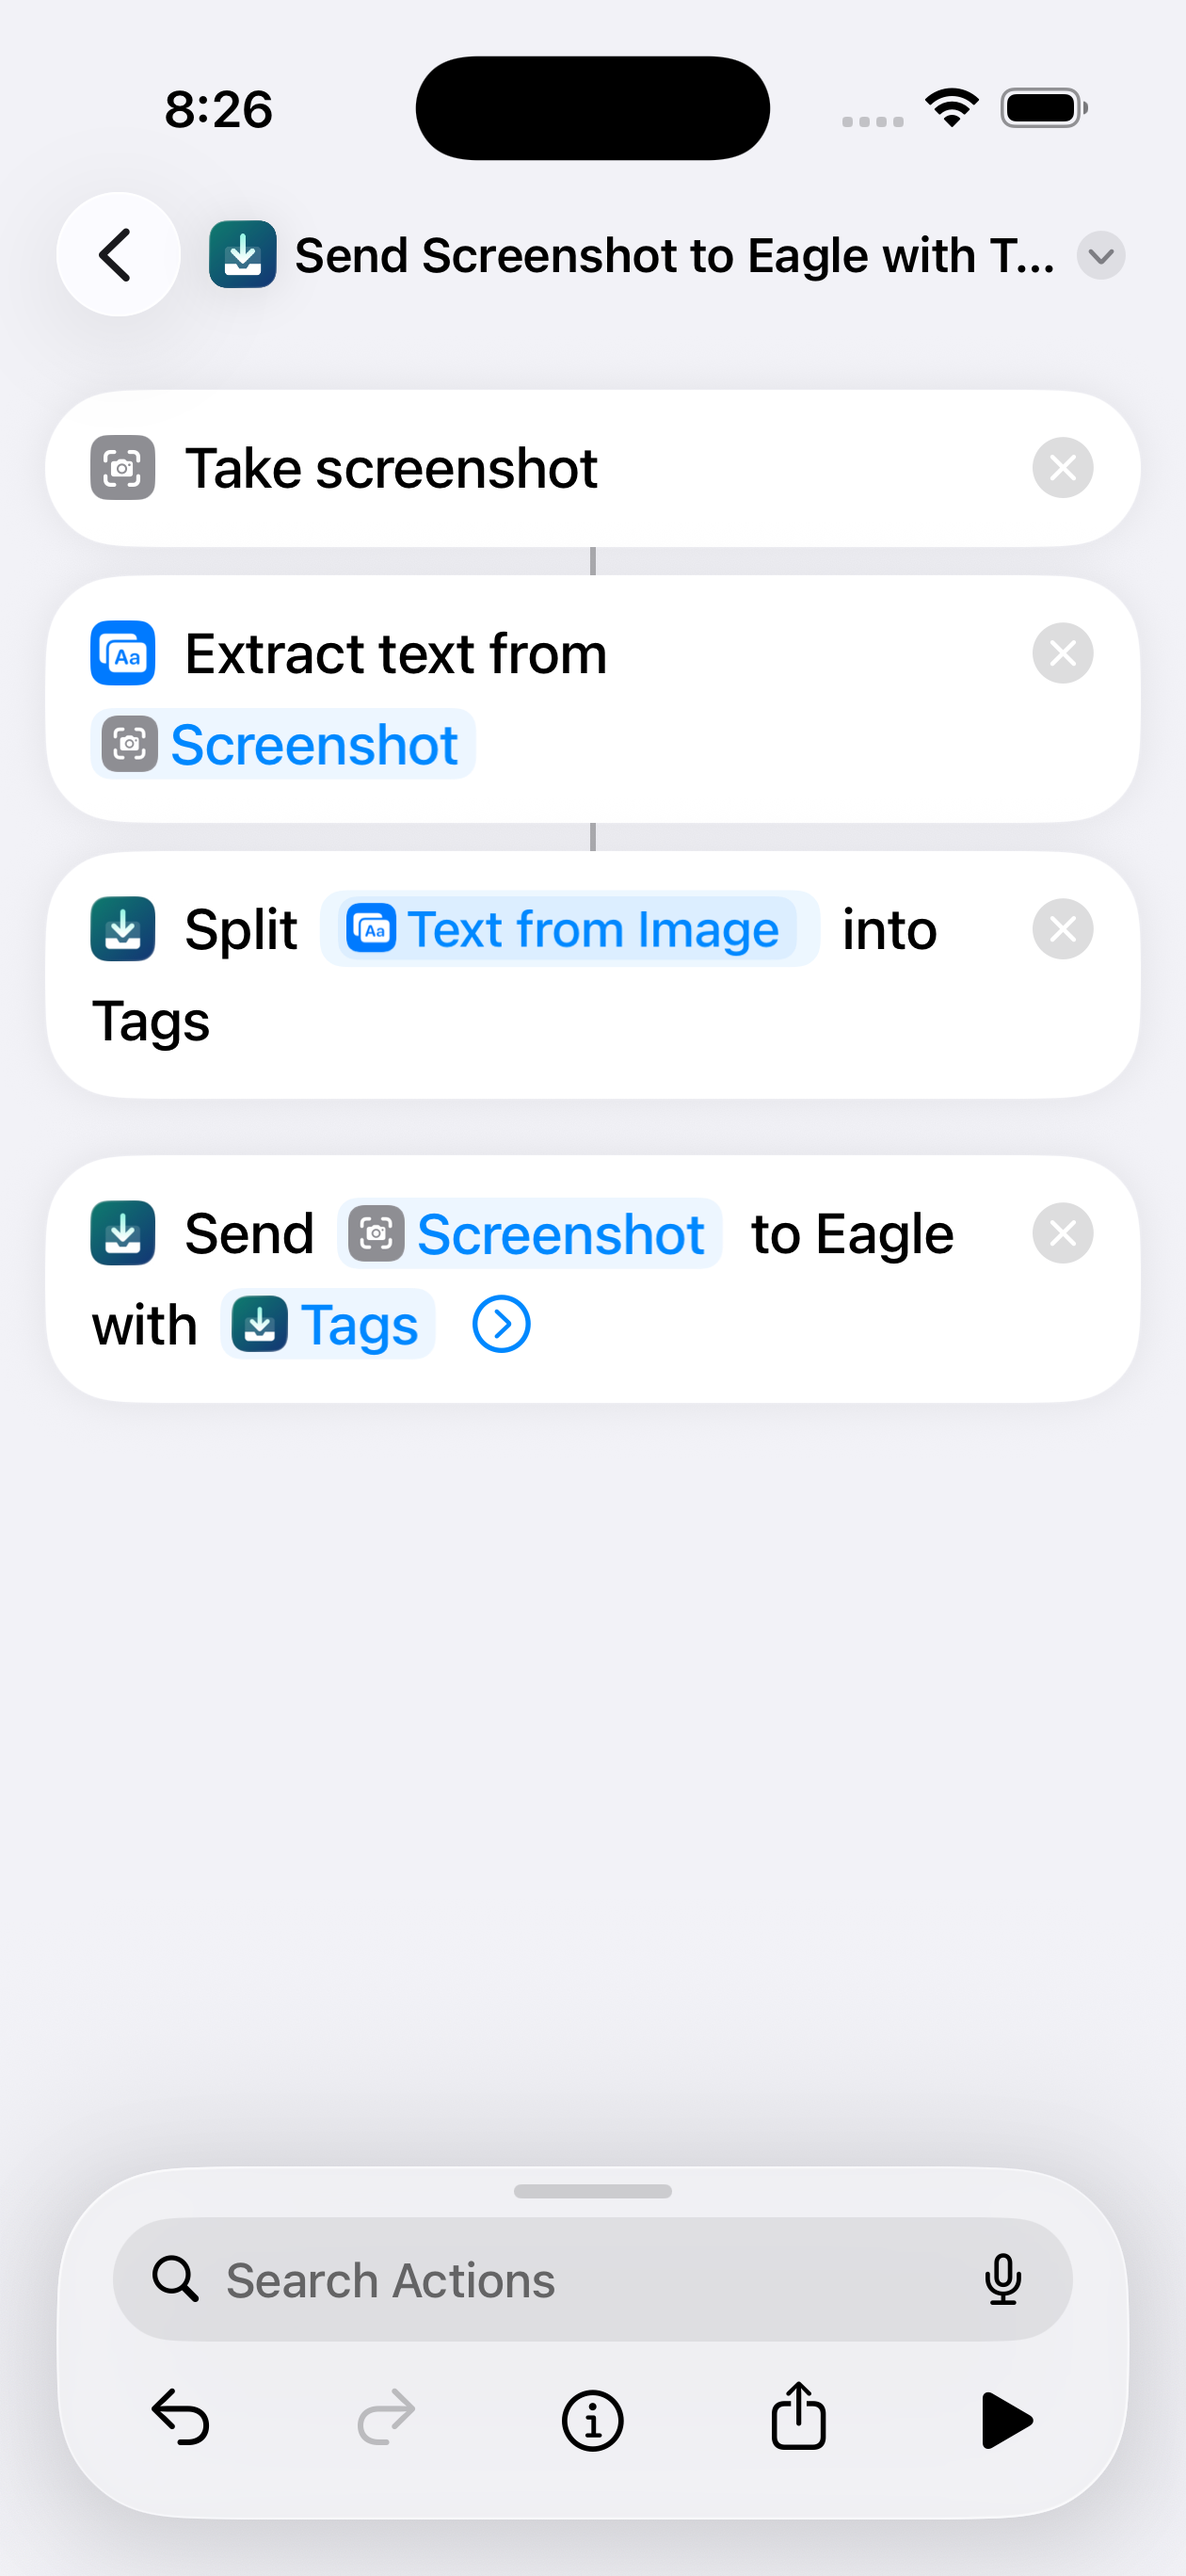
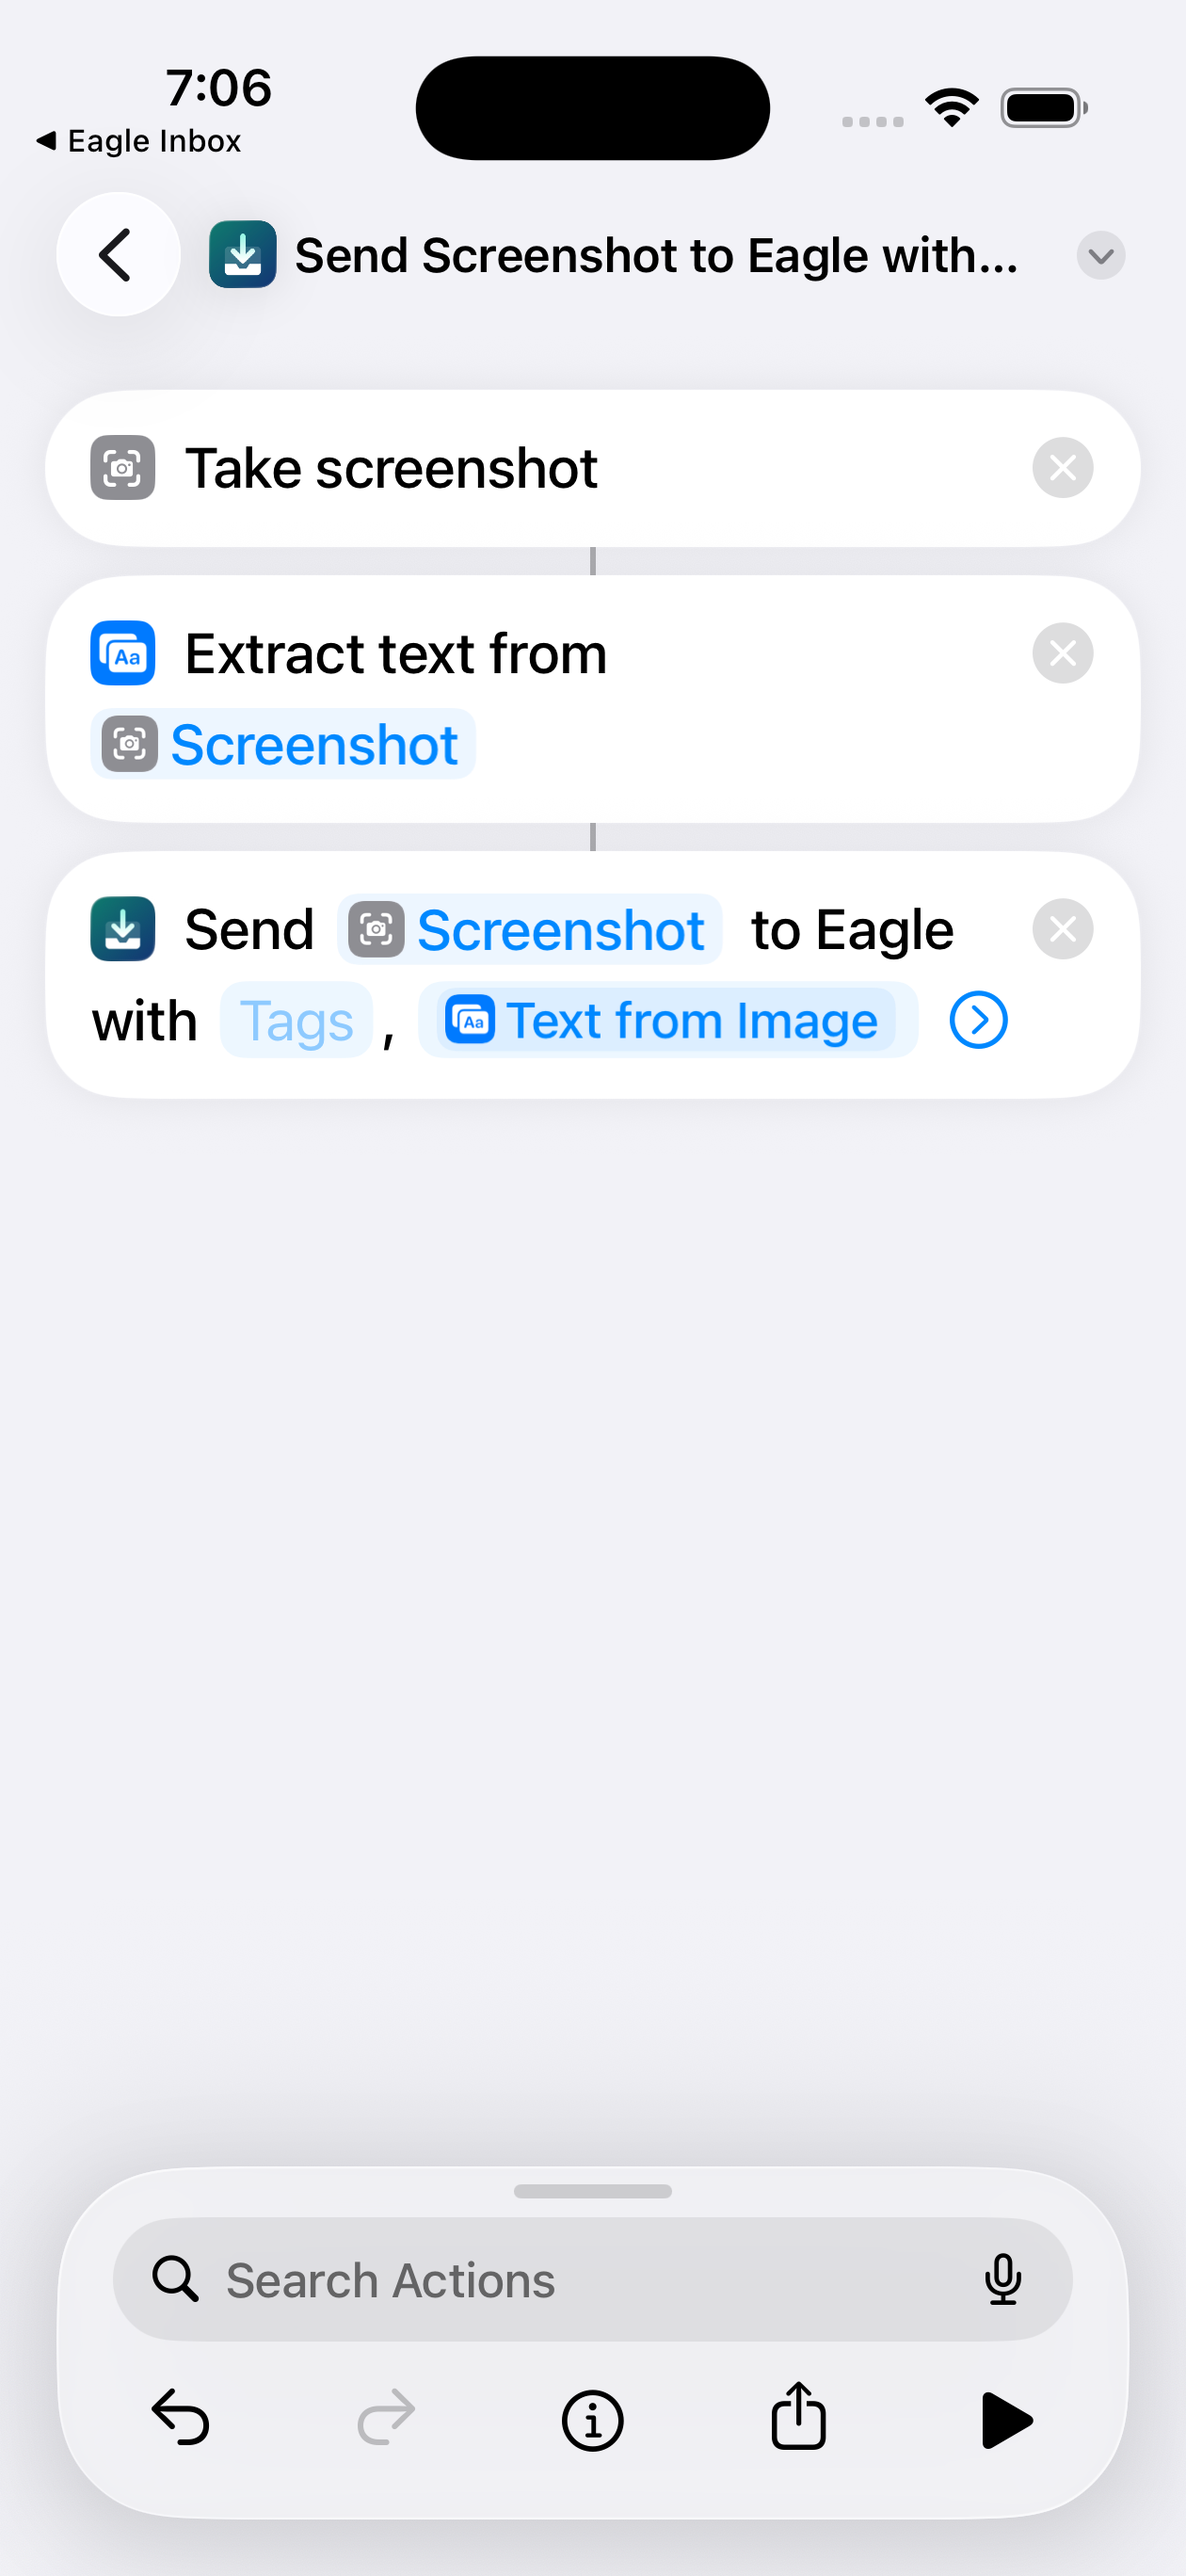
feat: enhance shortcuts with optional tags and annotations for file and URL actions

diff --git a/EagleInbox/EagleShortcuts.swift b/EagleInbox/EagleShortcuts.swift
@@ -37,18 +37,26 @@ struct SendFilesToEagleIntent: AppIntent {
 }
 
 struct SendFilesToEagleWithTagsIntent: AppIntent {
-    static let title: LocalizedStringResource = "Send Files to Eagle with Tags"
+    static let title: LocalizedStringResource =
+        "Send Files to Eagle with Tags, Annotation"
     static let description = IntentDescription(
-        "Sends photos, videos, audio, and PDFs with tags to the selected Eagle connection."
+        "Sends photos, videos, audio, and PDFs with optional tags and an optional annotation to the selected Eagle connection."
     )
     static let openAppWhenRun = false
 
     @Parameter(
         title: "Tags",
-        description: "The tags to apply to every sent item.",
+        description: "Optional tags to apply to every sent item.",
         inputConnectionBehavior: .connectToPreviousIntentResult
     )
-    var tags: [String]
+    var tags: [String]?
+
+    @Parameter(
+        title: "Annotation",
+        description: "An optional annotation to apply to every sent item.",
+        inputOptions: .init(multiline: true, autocorrect: true)
+    )
+    var annotation: String?
 
     @Parameter(
         title: "Files",
@@ -64,13 +72,16 @@ struct SendFilesToEagleWithTagsIntent: AppIntent {
     var files: [IntentFile]
 
     static var parameterSummary: some ParameterSummary {
-        Summary("Send \(\.$files) to Eagle with \(\.$tags)")
+        Summary(
+            "Send \(\.$files) to Eagle with \(\.$tags), \(\.$annotation)"
+        )
     }
 
     func perform() async throws -> some IntentResult & ProvidesDialog {
         let dialog = try await EagleShortcutSender.send(
             files: files,
-            tags: try EagleShortcutSender.requiredTags(tags)
+            tags: EagleShortcutSender.normalizedTags(tags),
+            annotation: EagleShortcutSender.normalizedAnnotation(annotation)
         )
         return .result(dialog: dialog)
     }
@@ -105,18 +116,26 @@ struct SendURLsToEagleIntent: AppIntent {
 }
 
 struct SendURLsToEagleWithTagsIntent: AppIntent {
-    static let title: LocalizedStringResource = "Send URLs to Eagle with Tags"
+    static let title: LocalizedStringResource =
+        "Send URLs to Eagle with Tags, Annotation"
     static let description = IntentDescription(
-        "Saves web URLs as tagged bookmarks in the selected Eagle connection."
+        "Saves web URLs as bookmarks with optional tags and an optional annotation in the selected Eagle connection."
     )
     static let openAppWhenRun = false
 
     @Parameter(
         title: "Tags",
-        description: "The tags to apply to every sent item.",
+        description: "Optional tags to apply to every sent item.",
         inputConnectionBehavior: .connectToPreviousIntentResult
     )
-    var tags: [String]
+    var tags: [String]?
+
+    @Parameter(
+        title: "Annotation",
+        description: "An optional annotation to apply to every sent item.",
+        inputOptions: .init(multiline: true, autocorrect: true)
+    )
+    var annotation: String?
 
     @Parameter(
         title: "URLs",
@@ -126,13 +145,16 @@ struct SendURLsToEagleWithTagsIntent: AppIntent {
     var urls: [URL]
 
     static var parameterSummary: some ParameterSummary {
-        Summary("Send \(\.$urls) to Eagle with \(\.$tags)")
+        Summary(
+            "Send \(\.$urls) to Eagle with \(\.$tags), \(\.$annotation)"
+        )
     }
 
     func perform() async throws -> some IntentResult & ProvidesDialog {
         let dialog = try await EagleShortcutSender.send(
             urls: urls,
-            tags: try EagleShortcutSender.requiredTags(tags)
+            tags: EagleShortcutSender.normalizedTags(tags),
+            annotation: EagleShortcutSender.normalizedAnnotation(annotation)
         )
         return .result(dialog: dialog)
     }
@@ -169,17 +191,23 @@ struct SplitTextIntoTagsIntent: AppIntent {
 }
 
 private enum EagleShortcutSender {
-    static func requiredTags(_ input: [String]) throws -> [String] {
-        let tags = EagleTagInput.names(from: input)
-        guard !tags.isEmpty else {
-            throw EagleShortcutError.noTags
+    static func normalizedTags(_ input: [String]?) -> [String] {
+        EagleTagInput.names(from: input)
+    }
+
+    static func normalizedAnnotation(_ input: String?) -> String? {
+        guard let annotation = input?.trimmingCharacters(
+            in: .whitespacesAndNewlines
+        ), !annotation.isEmpty else {
+            return nil
         }
-        return tags
+        return annotation
     }
 
     static func send(
         files: [IntentFile],
-        tags: [String]
+        tags: [String],
+        annotation: String? = nil
     ) async throws -> IntentDialog {
         guard !files.isEmpty else {
             throw EagleShortcutError.noInput
@@ -201,7 +229,8 @@ private enum EagleShortcutSender {
                 defer { materializedFile.removeTemporaryCopy() }
                 try await uploader.upload(
                     materializedFile.uploadItem,
-                    tags: tags
+                    tags: tags,
+                    annotation: annotation
                 )
                 batch.recordSuccess()
             } catch is CancellationError {
@@ -227,7 +256,8 @@ private enum EagleShortcutSender {
 
     static func send(
         urls: [URL],
-        tags: [String]
+        tags: [String],
+        annotation: String? = nil
     ) async throws -> IntentDialog {
         guard !urls.isEmpty else {
             throw EagleShortcutError.noValidWebURL
@@ -268,7 +298,11 @@ private enum EagleShortcutSender {
                 source: .bookmark(url)
             )
             do {
-                try await uploader.upload(item, tags: tags)
+                try await uploader.upload(
+                    item,
+                    tags: tags,
+                    annotation: annotation
+                )
                 batch.recordSuccess()
             } catch is CancellationError {
                 throw CancellationError()
@@ -306,10 +340,10 @@ struct EagleInboxShortcuts: AppShortcutsProvider {
         AppShortcut(
             intent: SendURLsToEagleWithTagsIntent(),
             phrases: [
-                "Send tagged URLs with \(.applicationName)",
-                "Save tagged links with \(.applicationName)"
+                "Send URLs with extra options using \(.applicationName)",
+                "Save links with extra options using \(.applicationName)"
             ],
-            shortTitle: "Send URLs with Tags",
+            shortTitle: "Send URLs with Tags, Annotation",
             systemImageName: "tag"
         )
         AppShortcut(
@@ -324,10 +358,10 @@ struct EagleInboxShortcuts: AppShortcutsProvider {
         AppShortcut(
             intent: SendFilesToEagleWithTagsIntent(),
             phrases: [
-                "Send tagged files with \(.applicationName)",
-                "Send tagged media with \(.applicationName)"
+                "Send files with extra options using \(.applicationName)",
+                "Send media with extra options using \(.applicationName)"
             ],
-            shortTitle: "Send Files with Tags",
+            shortTitle: "Send Files with Tags, Annotation",
             systemImageName: "tag"
         )
         AppShortcut(
@@ -391,7 +425,8 @@ private struct EagleShortcutUploader {
 
     func upload(
         _ item: EagleShortcutUploadItem,
-        tags: [String]
+        tags: [String],
+        annotation: String?
     ) async throws {
         _ = try await client.upload(
             source: item.source,
@@ -400,7 +435,7 @@ private struct EagleShortcutUploader {
                 website: nil,
                 tags: tags,
                 folders: [],
-                annotation: nil
+                annotation: annotation
             )
         )
     }

diff --git a/Tests/CoreSmoke.swift b/Tests/CoreSmoke.swift
@@ -636,11 +636,12 @@ enum CoreSmoke {
             website: "https://unused.example.com",
             tags: ["reference"],
             folders: [],
-            annotation: nil
+            annotation: "Saved from Shortcuts"
         ).bookmarkJSONObject(url: URL(string: "https://www.example.com")!)
         precondition(bookmark["bookmarkURL"] as? String == "https://www.example.com")
         precondition(bookmark["name"] as? String == "Example Site")
         precondition(bookmark["tags"] as? [String] == ["reference"])
+        precondition(bookmark["annotation"] as? String == "Saved from Shortcuts")
         precondition(bookmark["website"] == nil)
 
         let identityA = MediaFileSupport.bookmarkIdentity(

diff --git a/Docs/DEVELOPMENT.md b/Docs/DEVELOPMENT.md
@@ -123,8 +123,8 @@ At minimum, verify the following on a physical device or through TestFlight:
 - Canceling an upload in progress, retaining unsent items, and retrying failed items
 - Per-item progress for a large video, including preparing, uploading, and finishing states
 - Photos, files, URLs, and the share extension
-- All five Eagle Inbox actions in Apple Shortcuts: simple file/URL sends without tag fields; both `with Tags` actions with one or multiple tags; and `Split Text into Tags` with comma-separated, newline-separated, blank, and duplicate values
-- An OCR workflow that connects extracted text to `Split Text into Tags`, its output to a `with Tags` action, and the original image to the file input; also verify existing saved simple shortcuts, Japanese labels, and an Action Button workflow on a physical iPhone
+- All five Eagle Inbox actions in Apple Shortcuts: simple file/URL sends without metadata fields; both `with Tags, Annotation` actions with neither optional value, tags only, an annotation only, and both values; and `Split Text into Tags` with comma-separated, newline-separated, blank, and duplicate values
+- An OCR workflow that connects extracted text to `Split Text into Tags`, its output to a `with Tags, Annotation` action, and the original image to the file input; also verify existing saved simple shortcuts and saved `with Tags` shortcuts from the previous version, Japanese labels, and an Action Button workflow on a physical iPhone
 - Connection sharing between the main app and share extension
 - iPad in iPhone compatibility mode
 - Running as a Designed for iPhone app on an Apple Silicon Mac

diff --git a/README.md b/README.md
@@ -63,16 +63,16 @@ Allow local network access when prompted. Notifications are optional and do not 
 Eagle Inbox provides five actions in Apple Shortcuts:
 
 - `Send URLs to Eagle` saves HTTP and HTTPS URLs as Eagle bookmarks
-- `Send URLs to Eagle with Tags` saves URLs with a required list of tags
+- `Send URLs to Eagle with Tags, Annotation` saves URLs with optional tags and an optional annotation
 - `Send Files to Eagle` accepts photos, videos, audio, and PDFs
-- `Send Files to Eagle with Tags` sends supported files with a required list of tags
+- `Send Files to Eagle with Tags, Annotation` sends supported files with optional tags and an optional annotation
 - `Split Text into Tags` turns comma- or newline-separated text into a tag list
 
 All send actions use the connection currently selected in Eagle Inbox and run without opening the app. The selected connection must have been tested and the expected Eagle library must be open.
 
 | Shortcut example | Assign it to the Action Button |
 | --- | --- |
-| ![Send Screenshot to Eagle with Tags in Apple Shortcuts](./Docs/Screenshots/shortcuts-send-screenshot-with-tags.png) | ![Send Files to Eagle assigned to the iPhone Action Button](./Docs/Screenshots/action-button-shortcut.png) |
+| ![Send Screenshot to Eagle with OCR text connected to Annotation in Apple Shortcuts](./Docs/Screenshots/shortcuts-send-screenshot-with-tags.png) | ![Send Files to Eagle assigned to the iPhone Action Button](./Docs/Screenshots/action-button-shortcut.png) |
 
 ## Features
 

diff --git a/Docs/ARCHITECTURE.md b/Docs/ARCHITECTURE.md
@@ -82,16 +82,16 @@ Messages for loading shared content, connection status, and folder retrieval are
 
 The main app exposes five App Intents. They appear in Apple Shortcuts and can be used in a shortcut assigned to the iPhone Action Button.
 
-- `Send Files to Eagle` and `Send URLs to Eagle` send without tag parameters
-- `Send Files to Eagle with Tags` and `Send URLs to Eagle with Tags` require a tag list and show it directly in the action summary
+- `Send Files to Eagle` and `Send URLs to Eagle` send without metadata parameters
+- `Send Files to Eagle with Tags, Annotation` and `Send URLs to Eagle with Tags, Annotation` accept optional tags and an optional annotation
 - `Split Text into Tags` converts comma- or newline-separated text into a reusable tag-list output
 
 - Use the connection currently selected in the shared settings store
 - Run without opening the main app
 - Revalidate the connection and expected library before sending
 - Reject a library mismatch instead of allowing an unattended one-time override
-- Apply required tag names to every item only in the two `with Tags` intents
-- Do not expose folder or annotation parameters
+- Apply optional tag names and an optional annotation to every item only in the two metadata intents
+- Do not expose folder parameters
 - Copy each shortcut file into temporary storage, upload it, and delete the copy before processing the next file
 - Continue through a batch and report partial failures to Shortcuts
 
